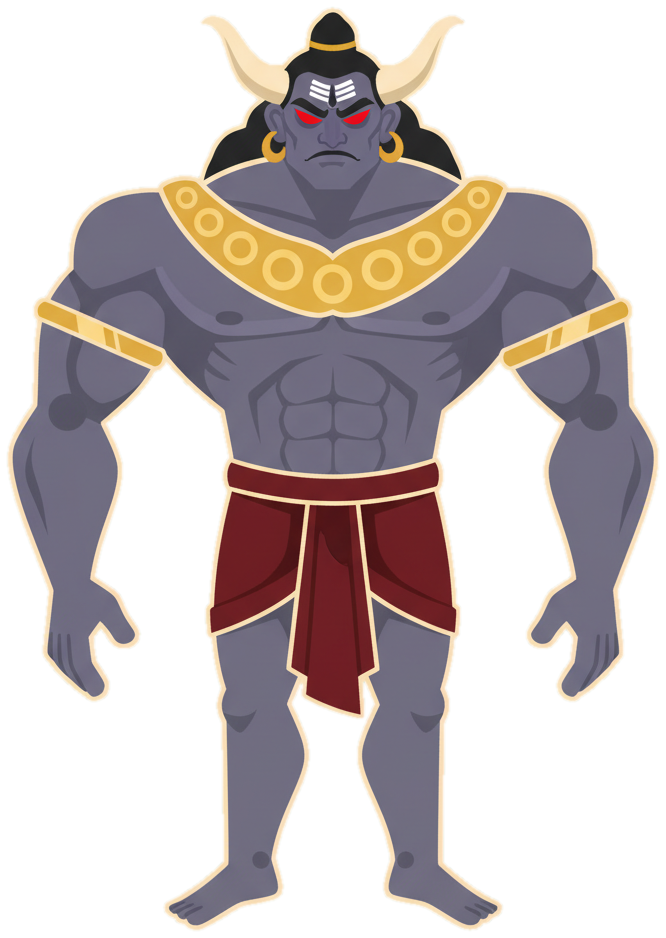
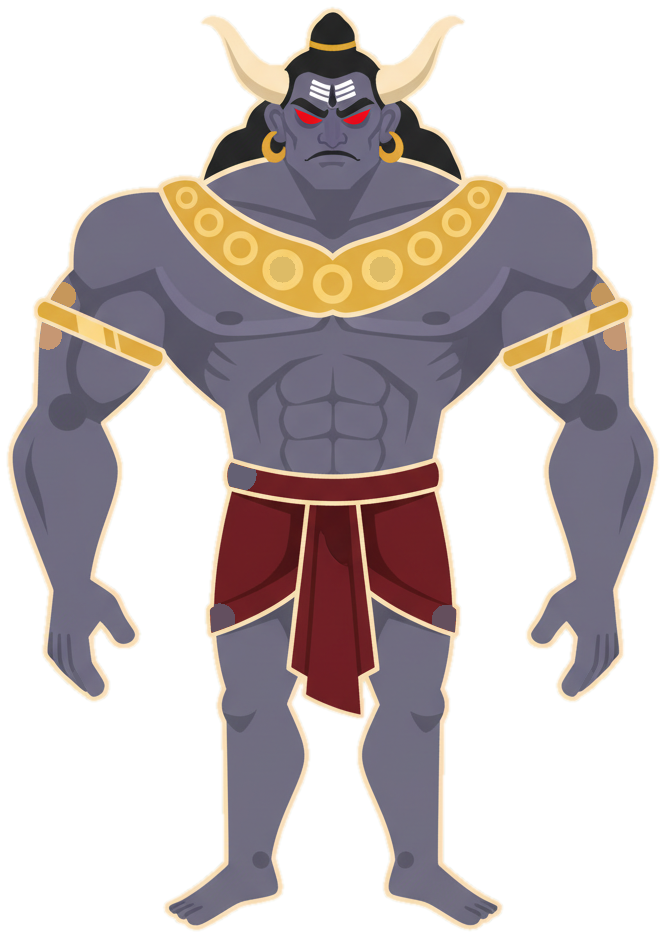
Joint discs recoloured to match limb/garment colour (script + standard prompt updated)
Claude-Session: https://claude.ai/code/session_01Ec4SCj5r735t7UeJwM29yv

diff --git a/studio/gen_expr.py b/studio/gen_expr.py
@@ -1,0 +1,38 @@
+"""Expression sheets: for every humanoid character Gemini draws ONE image with six heads of the same character (neutral, smile, angry, sad, shocked, eyes closed);
+we cut them into library/puppets/<id>/heads/<expr>.png (left to right order). usage: gen_expr.py [id ...]"""
+import os,sys,json,base64,subprocess,time,numpy as np,concurrent.futures as cf
+from PIL import Image
+from scipy import ndimage as ndi
+R=os.path.dirname(os.path.dirname(os.path.abspath(__file__)));P=R+'/library/puppets/'
+sys.path.insert(0,R+'/studio');import keyout
+M=json.load(open(P+'cast.json'));animals=set(M.get('animal_ids',[]))
+EXPR=['neutral','smile','angry','sad','shocked','closed']
+ids=sys.argv[1:] or [k for k in M['characters'] if k not in animals and os.path.exists(f'{P}{k}/full.png') and not os.path.exists(f'{P}{k}/heads/closed.png')]
+TEMPLATE=("Character expression sheet. {desc} Draw ONLY the HEAD and neck of this exact same character SIX times in ONE horizontal row, evenly spaced with wide empty gaps, all at exactly the same scale and angle, front view, same hair, crown, jewellery and skin tone in every head. The six expressions left to right: 1 neutral calm, 2 gentle smile, 3 angry (heavy lowered brows, plain tight frown, NO fangs, NO face lines), 4 sad (raised inner brows, downturned mouth, watery eyes), 5 shocked (wide eyes, small open mouth), 6 eyes closed serene. "
+ "SIMPLE GEOMETRIC FLAT-VECTOR style: flat solid colours with ONE darker shade tone, thin warm cream outline, minimal detail, no painterly texture. On ONE solid flat pure green (#00FF00) background, no border, no text, no labels.")
+def gen(k):
+    os.makedirs(P+k+'/heads',exist_ok=True)
+    for _ in range(3):
+        r=subprocess.run(['curl','-sS','-m','170','-X','POST','https://generativelanguage.googleapis.com/v1beta/openai/images/generations','-H','Content-Type: application/json','-d',json.dumps({'model':'gemini-2.5-flash-image','prompt':TEMPLATE.format(desc=M['characters'][k]),'n':1,'response_format':'b64_json'})],capture_output=True,text=True)
+        try:d=json.loads(r.stdout)
+        except Exception:time.sleep(3);continue
+        if isinstance(d,list):d=d[0]
+        if 'data' in d:open(f'{P}{k}/heads/sheet.png','wb').write(base64.b64decode(d['data'][0]['b64_json']));return k,'ok'
+        time.sleep(4)
+    return k,'FAILED'
+def cut(k):
+    p=f'{P}{k}/heads/sheet.png'
+    if not os.path.exists(p):return
+    tmp=f'{P}{k}/heads/_keyed.png'
+    try:keyout.key(p,tmp,pad=0)
+    except Exception as e:print('key failed',k,e);return
+    im=Image.open(tmp).convert('RGBA');a=np.asarray(im)[...,3]>40;lab,n=ndi.label(ndi.binary_dilation(a,iterations=6))
+    if n<6:print('only',n,'heads for',k);return
+    sizes=ndi.sum(a,lab,index=np.arange(1,n+1));top=np.argsort(sizes)[::-1][:6]+1
+    boxes=sorted([(ndi.find_objects(lab==t)[0],t) for t in top],key=lambda b:b[0][1].start)
+    for (sl,t),name in zip(boxes,EXPR):
+        piece=np.asarray(im).copy();piece[~(lab==t)]=0;Image.fromarray(piece,'RGBA').crop((sl[1].start,sl[0].start,sl[1].stop,sl[0].stop)).save(f'{P}{k}/heads/{name}.png')
+    os.remove(tmp)
+with cf.ThreadPoolExecutor(3) as ex:
+    for k,s in ex.map(gen,ids):print(k,s,flush=True)
+for k in ids:cut(k)

diff --git a/studio/recolor_joints.py b/studio/recolor_joints.py
@@ -1,0 +1,52 @@
+"""Make the round joint discs match the colour of the limb/garment they sit on (slightly darker) instead of contrasting brown/black dots.
+usage: recolor_joints.py [id ...]   (default: every character with full.png; writes full.png, keeps source.png untouched; full_orig.png backup)"""
+import os,sys,json,shutil,numpy as np,cv2
+from PIL import Image
+R=os.path.dirname(os.path.dirname(os.path.abspath(__file__)));P=R+'/library/puppets/'
+def process(k,darken=0.90):
+    src=f'{P}{k}/full.png'
+    if not os.path.exists(src):return 0
+    bak=f'{P}{k}/full_orig.png'
+    if not os.path.exists(bak):shutil.copy(src,bak)
+    im=Image.open(bak).convert('RGBA');a=np.asarray(im).copy();rgb=a[...,:3];al=a[...,3]>200
+    H,W=al.shape;g=cv2.cvtColor(rgb,cv2.COLOR_RGB2GRAY);g[~al]=255;g=cv2.GaussianBlur(g,(5,5),1.5)
+    r0=max(8,int(H*0.012));r1=int(H*0.040)
+    circ=cv2.HoughCircles(g,cv2.HOUGH_GRADIENT,dp=1.2,minDist=r0*2,param1=90,param2=18,minRadius=r0,maxRadius=r1)
+    if circ is None:return 0
+    n=0;yy,xx=np.mgrid[0:H,0:W]
+    for x,y,r in circ[0]:
+        x,y,r=int(x),int(y),int(r);inside=(xx-x)**2+(yy-y)**2<=r*r;ann=((xx-x)**2+(yy-y)**2<=(r*1.9)**2)&~((xx-x)**2+(yy-y)**2<=(r*1.15)**2)&al
+        if inside.sum()<50 or ann.sum()<80:continue
+        if al[inside].mean()<.9:continue
+        ci=np.median(rgb[inside],axis=0);ca=np.median(rgb[ann],axis=0)
+        li=ci.mean();la=ca.mean();dist=np.linalg.norm(ci-ca)
+        sd=rgb[inside].std(axis=0).mean()
+        # a joint disc: clearly darker/different from its surroundings AND a flat uniform fill
+        if dist<45 or li>la-18 or sd>20:continue
+        new=(ca*darken).clip(0,255)
+        m=(xx-x)**2+(yy-y)**2<=(r+1)**2
+        a[...,:3][m&al]=new.astype(np.uint8);n+=1
+    # second pass: flat, compact, locally darker blobs (catches very dark or small discs that Hough missed)
+    rgb=a[...,:3];al=a[...,3]>200;gg=cv2.cvtColor(rgb,cv2.COLOR_RGB2GRAY).astype(np.float32)
+    big=cv2.medianBlur(cv2.cvtColor(rgb,cv2.COLOR_RGB2GRAY),int(H*0.06)//2*2+1).astype(np.float32)
+    cand=((big-gg)>38)&al
+    cand=cv2.morphologyEx(cand.astype(np.uint8),cv2.MORPH_OPEN,np.ones((3,3),np.uint8))
+    num,lab,stats,cent=cv2.connectedComponentsWithStats(cand,connectivity=8)
+    for i in range(1,num):
+        x0,y0,w,h,area=stats[i]
+        if not(r0*2*0.7<=w<=r1*2.4 and r0*2*0.7<=h<=r1*2.4):continue
+        if area<0.7*np.pi*(min(w,h)/2)**2 or max(w,h)>1.35*min(w,h):continue
+        m=lab==i;cx,cy=cent[i];rr=int(max(w,h)/2)+2
+        ann=(((xx-cx)**2+(yy-cy)**2)<=(rr*1.9)**2)&~(((xx-cx)**2+(yy-cy)**2)<=(rr*1.15)**2)&al
+        if ann.sum()<80:continue
+        if rgb[m].std(axis=0).mean()>24:continue
+        ca=np.median(rgb[ann],axis=0);new=(ca*darken).clip(0,255)
+        mm=((xx-cx)**2+(yy-cy)**2<=(rr)**2)&al&(gg<ca.mean()-12);a[...,:3][mm]=new.astype(np.uint8);n+=1
+    Image.fromarray(a,'RGBA').save(src);return n
+if __name__=='__main__':
+    ids=sys.argv[1:] or sorted(os.listdir(P))
+    tot=0
+    for k in ids:
+        if os.path.isdir(P+k):
+            n=process(k);tot+=n;print(k,n)
+    print('discs recoloured:',tot)
